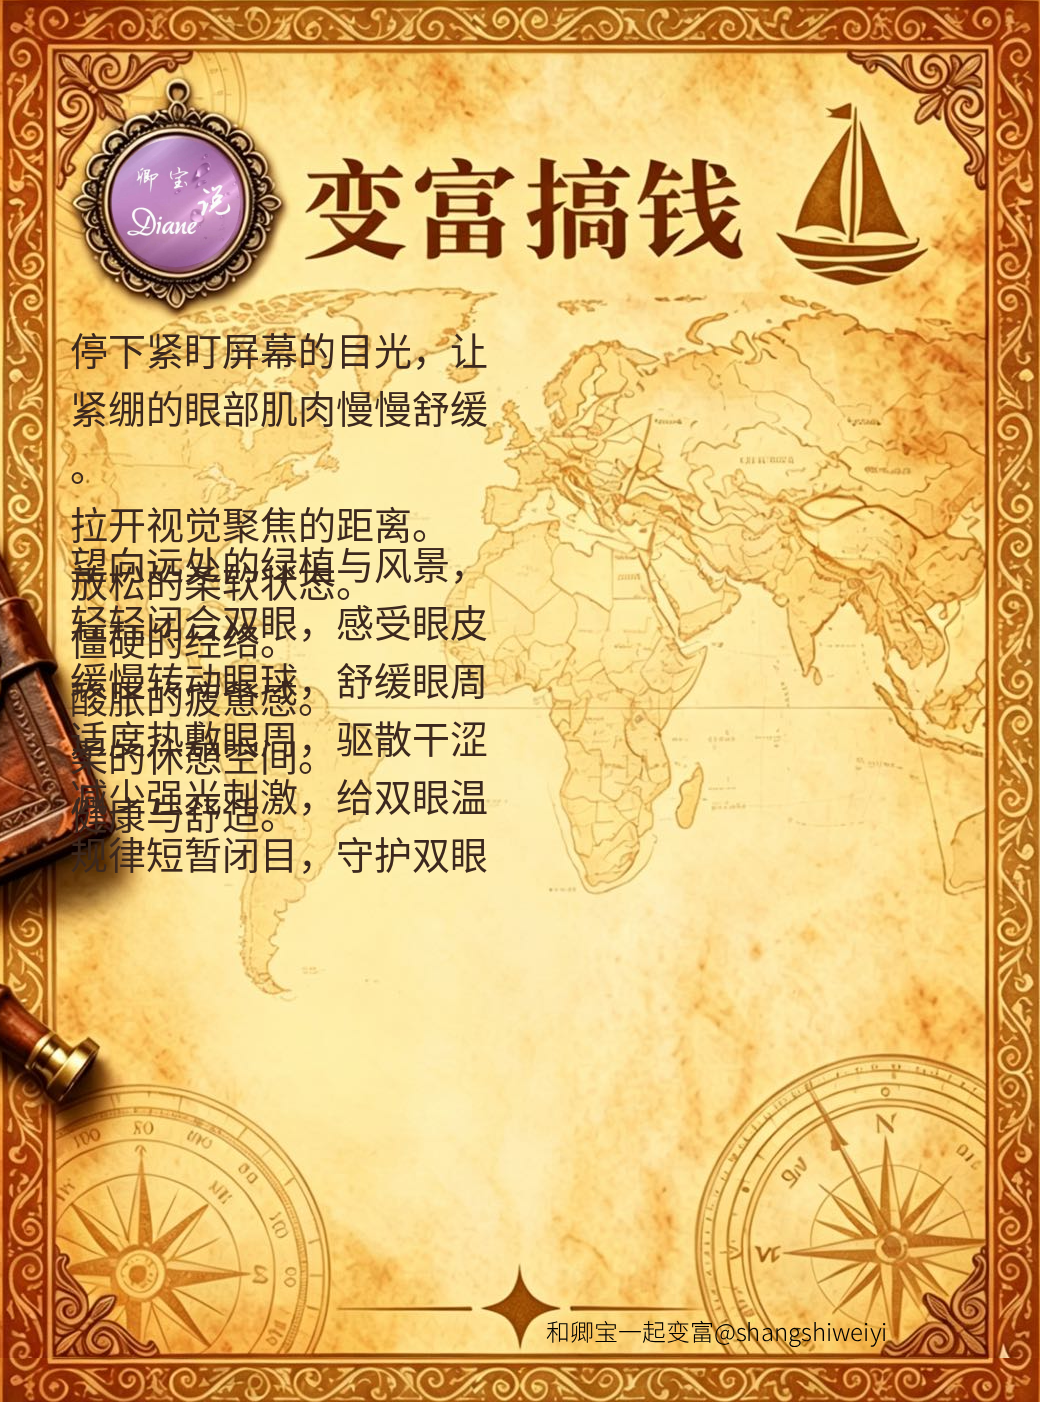
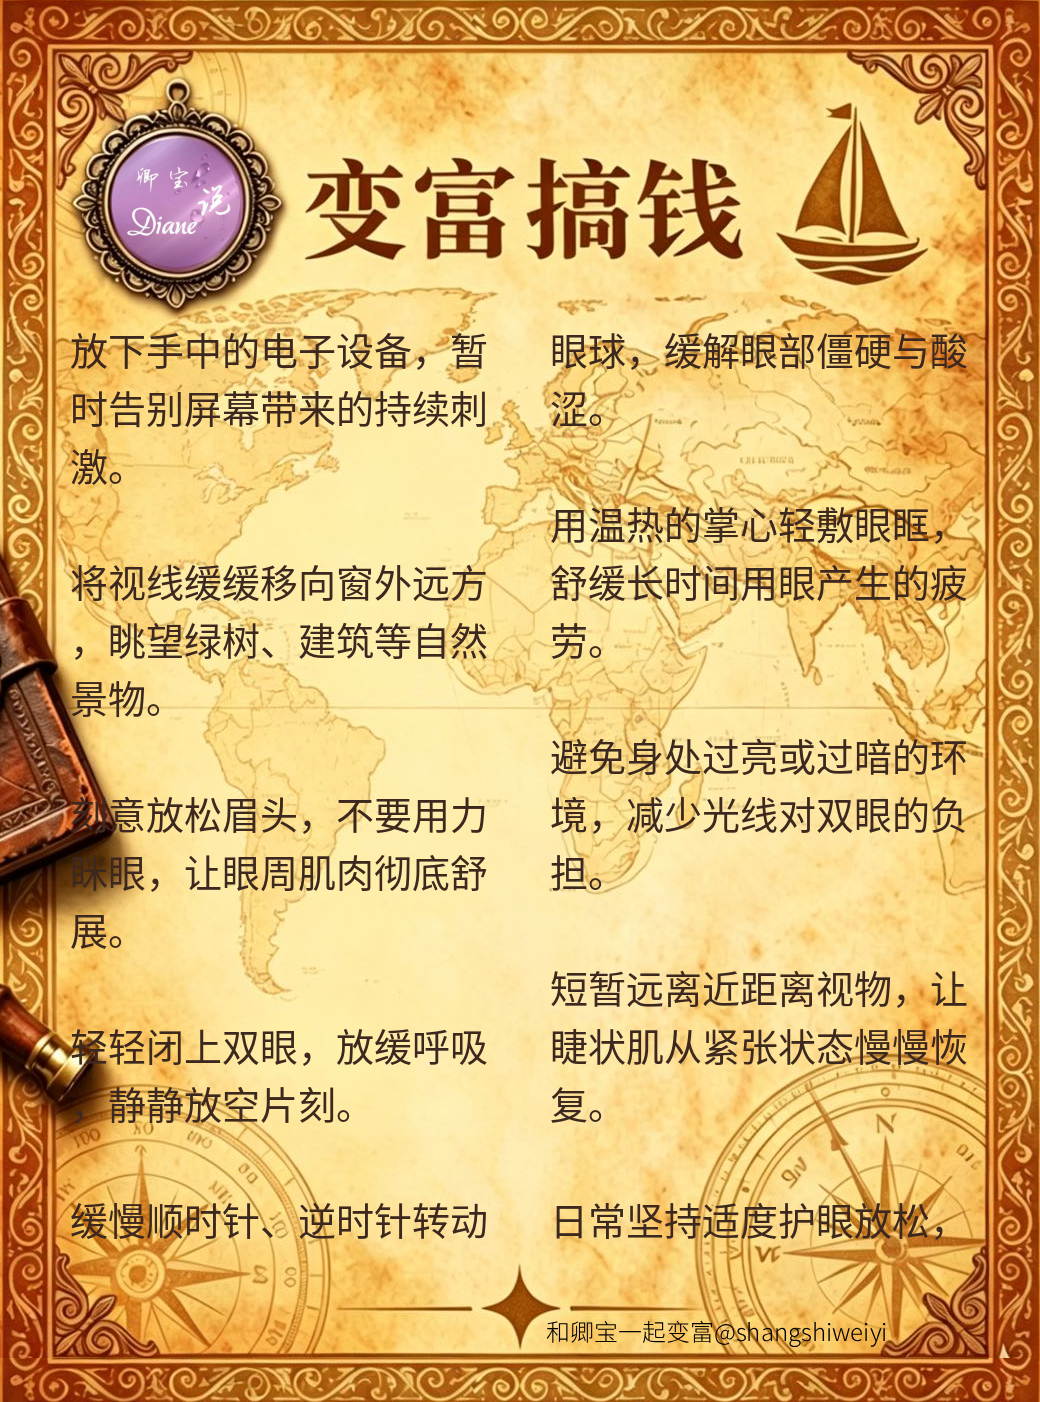
feat:260426

diff --git a/screenshot_engine.py b/screenshot_engine.py
@@ -2,77 +2,81 @@
 import os
 from PIL import Image, ImageDraw, ImageFont
 
-async def generate_screenshot(content_to_capture, output_file):
+async def generate_screenshot(content_to_capture, output_prefix="card"):
+    """
+    支持多图生成：根据内容长度自动分页渲染
+    返回生成的所有图片路径列表
+    """
+    generated_files = []
     try:
-        # 1. 基础配置
+        # 1. 资源加载
         bg_path = "变富短图文背景.png"
-        font_path = "font.otf" 
-        bg = Image.open(bg_path).convert("RGBA")
-        draw = ImageDraw.Draw(bg)
-
-        # 2. 核心排版参数 (经过 500 字容纳度优化)
-        font_size = 38         
-        line_height = 58       
-        margin_left = 70       
-        margin_center = 60     
-        y_start = 320          
+        font_path = "font.otf"
+        font_size = 38
+        line_height = 58
+        margin_left = 70
+        margin_center = 60
+        y_start = 320
         
-        column_width = (bg.width - 2 * margin_left - margin_center) // 2 
-        max_lines_per_column = (bg.height - y_start - 100) // line_height
-
+        # 2. 基础计算
+        bg_template = Image.open(bg_path).convert("RGBA")
+        draw_temp = ImageDraw.Draw(bg_template)
         font = ImageFont.truetype(font_path, font_size)
-
-        # 3. 增强版换行算法：处理段落与自动换行
-        all_lines = []
-        # 先按照用户输入的原始换行符分段
-        paragraphs = content_to_capture.splitlines() 
         
+        column_width = (bg_template.width - 2 * margin_left - margin_center) // 2
+        max_lines_per_column = (bg_template.height - y_start - 100) // line_height
+        lines_per_page = max_lines_per_column * 2 # 一张图两栏的总行数
+
+        # 3. 将全文切分为“行列表”
+        all_lines = []
+        paragraphs = content_to_capture.splitlines()
         for para in paragraphs:
-            if not para: # 处理空行
-                all_lines.append("")
+            if not para:
+                all_lines.append("") # 保持空行
                 continue
-                
             current_line = ""
             for char in para:
                 test_line = current_line + char
-                w = draw.textbbox((0, 0), test_line, font=font)[2]
+                w = draw_temp.textbbox((0, 0), test_line, font=font)[2]
                 if w <= column_width:
                     current_line = test_line
                 else:
                     all_lines.append(current_line)
                     current_line = char
-            all_lines.append(current_line) # 添加段落最后一行
+            all_lines.append(current_line)
 
-        # 4. 双栏绘制逻辑
-        text_color = (60, 40, 30) 
-        
-        for i, line in enumerate(all_lines):
-            # 计算当前行在第几栏
-            column_index = i // max_lines_per_column
-            line_index_in_column = i % max_lines_per_column
+        # 4. 分页渲染逻辑
+        page_num = 1
+        # 只要还有没画完的行，就继续生成新图
+        while all_lines:
+            # 取出当前页要画的行
+            current_page_lines = all_lines[:lines_per_page]
+            all_lines = all_lines[lines_per_page:] # 剩下的是后面页码的
             
-            if column_index == 0:
-                # 【左栏】
-                x_pos = margin_left
-            elif column_index == 1:
-                # 【右栏】
-                x_pos = margin_left + column_width + margin_center
-            else:
-                # 超出两栏范围，打断并添加省略号
-                last_y = y_start + (max_lines_per_column - 1) * line_height
-                draw.text((margin_left + column_width + margin_center, last_y), "...", fill=text_color, font=font)
-                break
+            # 创建新画布
+            bg = bg_template.copy()
+            draw = ImageDraw.Draw(bg)
+            text_color = (60, 40, 30)
+
+            for i, line in enumerate(current_page_lines):
+                col_idx = i // max_lines_per_column
+                row_idx = i % max_lines_per_column
                 
-            y_pos = y_start + (line_index_in_column * line_height)
-            
-            if line: # 只有非空行才绘制，避免空行报错
-                draw.text((x_pos, y_pos), line, fill=text_color, font=font)
+                x_pos = margin_left if col_idx == 0 else (margin_left + column_width + margin_center)
+                y_pos = y_start + (row_idx * line_height)
+                
+                if line:
+                    draw.text((x_pos, y_pos), line, fill=text_color, font=font)
 
-        # 5. 保存成品
-        final_img = bg.convert("RGB")
-        final_img.save(output_file, "PNG")
-        print(f"✅ 修正版双栏排版生成成功: {output_file}")
+            # 保存当前页
+            file_name = f"{output_prefix}_{page_num}.png"
+            bg.convert("RGB").save(file_name, "PNG")
+            generated_files.append(file_name)
+            page_num += 1
+
+        print(f"✅ 渲染完成，共生成 {len(generated_files)} 张图片")
+        return generated_files
         
     except Exception as e:
-        print(f"❌ 渲染引擎报错: {e}")
+        print(f"❌ 渲染引擎分页逻辑报错: {e}")
         raise e

diff --git a/bot.py b/bot.py
@@ -1,7 +1,8 @@
+# 文件名: bot.py
 import discord
 import os
 from dotenv import load_dotenv
-from screenshot_engine import generate_screenshot
+from screenshot_engine import generate_screenshot # 确保导入了你的引擎
 
 load_dotenv()
 TOKEN = os.getenv('DISCORD_TOKEN')
@@ -12,7 +13,7 @@ client = discord.Client(intents=intents)
 
 @client.event
 async def on_ready():
-    print(f'✅ 机器人 {client.user} 已上线，准备开始生成图片！')
+    print(f'✅ 机器人 {client.user} 已上线！')
 
 @client.event
 async def on_message(message):
@@ -23,21 +24,31 @@ async def on_message(message):
         content_to_capture = message.content.replace("生成 ", "").strip()
         
         if not content_to_capture:
-            await message.channel.send("请输入要生成的内容，例如：生成 今天的财富密码是...")
+            await message.channel.send("请输入内容哦！")
             return
 
-        print(f"🚀 正在为内容生成图片: {content_to_capture}")
+        print(f"🚀 开始多页渲染: {content_to_capture[:20]}...")
         
-        output_file = "card_output.png"
         try:
-            await generate_screenshot(content_to_capture, output_file)
+            # --- 核心修复点：确保这行在 async def 内部，且有正确的缩进 ---
+            output_files = await generate_screenshot(content_to_capture, "card_output")
             
-            with open(output_file, "rb") as f:
-                picture = discord.File(f)
-                await message.channel.send(content="✅ 视觉卡片渲染完成：", file=picture)
+            # 循环发送生成的图片列表 
+            for file_path in output_files:
+                with open(file_path, "rb") as f:
+                    picture = discord.File(f)
+                    await message.channel.send(file=picture)
+                
+                # 可选：发完后删除临时文件，节省 Codespaces 空间
+                if os.path.exists(file_path):
+                    os.remove(file_path)
+            
+            await message.channel.send(f"✅ 已完成 {len(output_files)} 张卡片分发。")
+            # -------------------------------------------------------
+
         except Exception as e:
-            await message.channel.send(f"❌ 图片生成失败：{str(e)}")
-            print(f"❌ 生成失败详情: {e}")
+            await message.channel.send(f"❌ 出错啦: {str(e)}")
+            print(f"报错详情: {e}")
 
 if __name__ == "__main__":
     client.run(TOKEN)